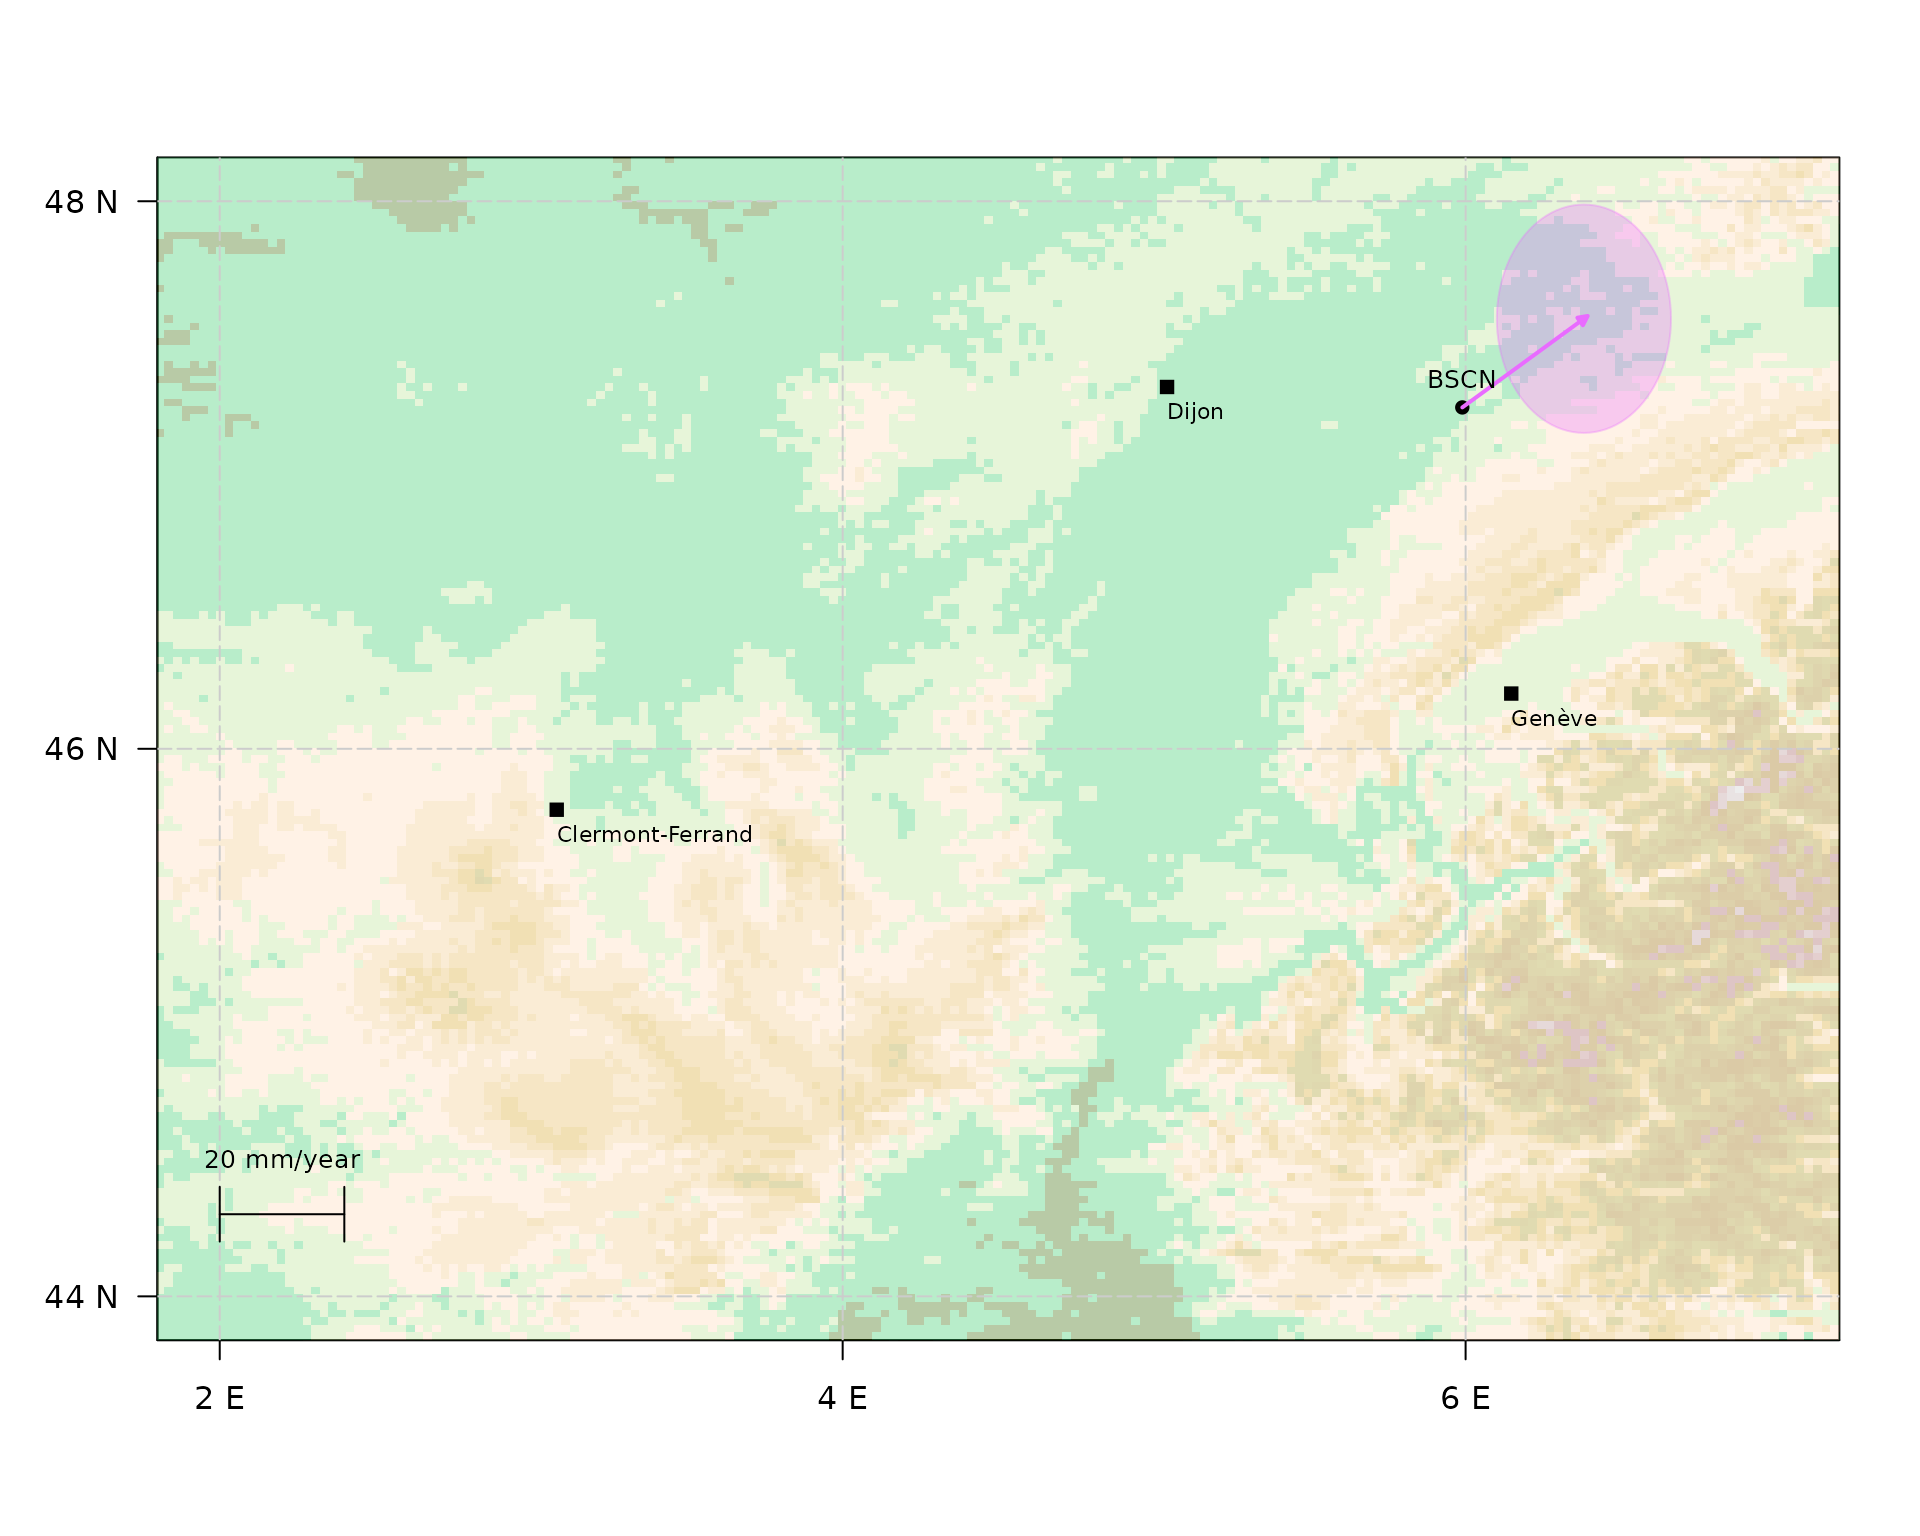
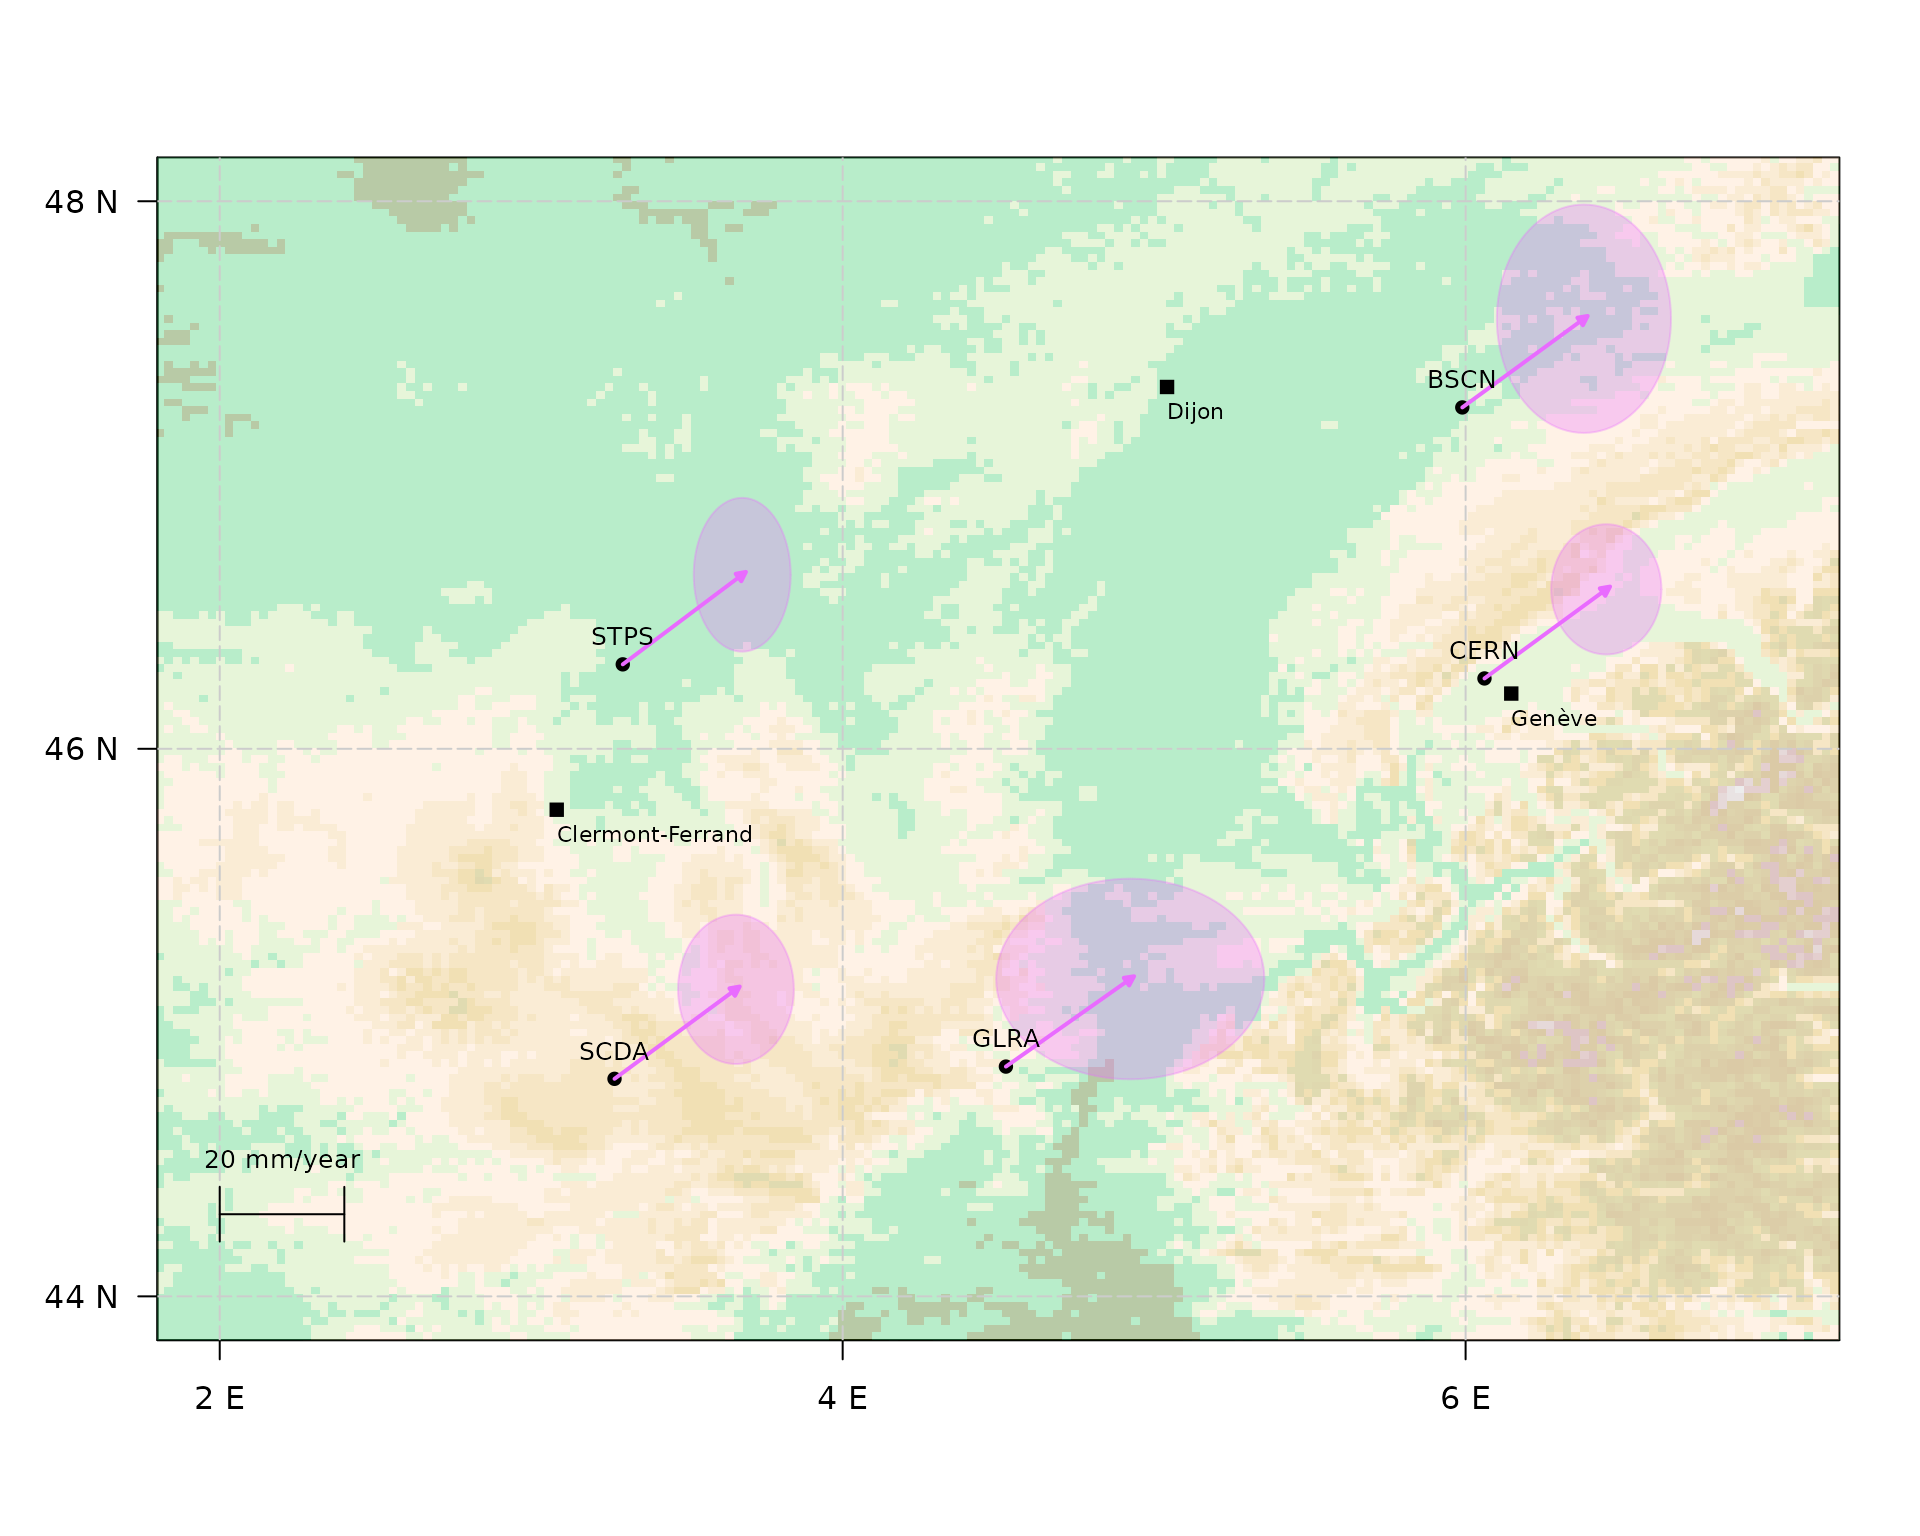
Deploying to gh-pages from @ SMAC-Group/gmwmx2@feb9e186579ff4a5169e818201d6920a2ecff6cf 🚀

diff --git a/articles/estimate_small_network.html b/articles/estimate_small_network.html
@@ -195,13 +195,15 @@
 <span></span>
 <span><span class="co"># download selected stations</span></span>
 <span><span class="va">selected_station</span> <span class="op">&lt;-</span> <span class="fu"><a href="https://rdrr.io/r/base/c.html" class="external-link">c</a></span><span class="op">(</span><span class="st">"BSCN"</span>, <span class="st">"CERN"</span>, <span class="st">"SCDA"</span>, <span class="st">"GLRA"</span>, <span class="st">"STPS"</span><span class="op">)</span></span>
-<span><span class="va">selected_station</span> <span class="op">&lt;-</span> <span class="fu"><a href="https://rdrr.io/r/base/c.html" class="external-link">c</a></span><span class="op">(</span><span class="st">"BSCN"</span><span class="op">)</span></span>
-<span><span class="co"># selected_station = c("BSCN")</span></span>
 <span><span class="va">df_network</span> <span class="op">&lt;-</span> <span class="va">all_station</span> <span class="op"><a href="https://magrittr.tidyverse.org/reference/pipe.html" class="external-link">%&gt;%</a></span> <span class="fu"><a href="https://dplyr.tidyverse.org/reference/filter.html" class="external-link">filter</a></span><span class="op">(</span><span class="va">station_name</span> <span class="op"><a href="https://rdrr.io/r/base/match.html" class="external-link">%in%</a></span> <span class="va">selected_station</span><span class="op">)</span></span>
 <span><span class="va">df_network</span></span></code></pre></div>
-<pre><code><span><span class="co">##    station_name latitude longitude   height</span></span>
-<span><span class="co">##          &lt;char&gt;    &lt;num&gt;     &lt;num&gt;    &lt;num&gt;</span></span>
-<span><span class="co">## 1:         BSCN 47.24688 -354.0106 359.5549</span></span></code></pre>
+<pre><code><span><span class="co">##    station_name latitude longitude    height</span></span>
+<span><span class="co">##          &lt;char&gt;    &lt;num&gt;     &lt;num&gt;     &lt;num&gt;</span></span>
+<span><span class="co">## 1:         BSCN 47.24688 -354.0106  359.5549</span></span>
+<span><span class="co">## 2:         CERN 46.25695 -353.9394  525.9422</span></span>
+<span><span class="co">## 3:         GLRA 44.83926 -355.4759  813.9238</span></span>
+<span><span class="co">## 4:         SCDA 44.79452 -356.7325 1115.3433</span></span>
+<span><span class="co">## 5:         STPS 46.30844 -356.7060  299.6851</span></span></code></pre>
 <div class="sourceCode" id="cb5"><pre class="downlit sourceCode r">
 <code class="sourceCode R"><span><span class="va">df_estimated_velocities</span> <span class="op">&lt;-</span> <span class="fu"><a href="https://rdrr.io/r/base/data.frame.html" class="external-link">data.frame</a></span><span class="op">(</span><span class="fu"><a href="https://rdrr.io/r/base/matrix.html" class="external-link">matrix</a></span><span class="op">(</span><span class="cn">NA</span>, nrow <span class="op">=</span> <span class="fu"><a href="https://rdrr.io/r/base/dim.html" class="external-link">dim</a></span><span class="op">(</span><span class="va">df_network</span><span class="op">)</span><span class="op">[</span><span class="fl">1</span><span class="op">]</span>, ncol <span class="op">=</span> <span class="fl">6</span><span class="op">)</span><span class="op">)</span></span>
 <span><span class="kw">for</span> <span class="op">(</span><span class="va">station_index</span> <span class="kw">in</span> <span class="fu"><a href="https://rdrr.io/r/base/seq.html" class="external-link">seq_along</a></span><span class="op">(</span><span class="va">df_network</span><span class="op">$</span><span class="va">station_name</span><span class="op">)</span><span class="op">)</span> <span class="op">{</span></span>
@@ -215,7 +217,11 @@
 <span></span>
 <span>  <span class="fu"><a href="https://rdrr.io/r/base/cat.html" class="external-link">cat</a></span><span class="op">(</span><span class="fu"><a href="https://rdrr.io/r/base/paste.html" class="external-link">paste0</a></span><span class="op">(</span><span class="st">"Processing station "</span>, <span class="va">station_name</span>, <span class="st">" "</span>, <span class="va">station_index</span>, <span class="st">"/"</span>, <span class="fu"><a href="https://rdrr.io/r/base/length.html" class="external-link">length</a></span><span class="op">(</span><span class="va">df_network</span><span class="op">$</span><span class="va">station_name</span><span class="op">)</span>, <span class="st">"\n"</span><span class="op">)</span><span class="op">)</span></span>
 <span><span class="op">}</span></span></code></pre></div>
-<pre><code><span><span class="co">## Processing station BSCN 1/1</span></span></code></pre>
+<pre><code><span><span class="co">## Processing station BSCN 1/5</span></span>
+<span><span class="co">## Processing station CERN 2/5</span></span>
+<span><span class="co">## Processing station GLRA 3/5</span></span>
+<span><span class="co">## Processing station SCDA 4/5</span></span>
+<span><span class="co">## Processing station STPS 5/5</span></span></code></pre>
 <div class="sourceCode" id="cb7"><pre class="downlit sourceCode r">
 <code class="sourceCode R"><span><span class="fu"><a href="https://rdrr.io/r/base/colnames.html" class="external-link">colnames</a></span><span class="op">(</span><span class="va">df_estimated_velocities</span><span class="op">)</span> <span class="op">&lt;-</span> <span class="fu"><a href="https://rdrr.io/r/base/c.html" class="external-link">c</a></span><span class="op">(</span><span class="st">"station_name"</span>, <span class="st">"estimated_trend_N"</span>, <span class="st">"std_estimated_trend_N"</span>, <span class="st">"estimated_trend_E"</span>, <span class="st">"std_estimated_trend_E"</span>, <span class="st">"time_series_length"</span><span class="op">)</span></span>
 <span></span>
@@ -237,12 +243,28 @@
 <span><span class="fu"><a href="https://rdrr.io/r/utils/head.html" class="external-link">head</a></span><span class="op">(</span><span class="va">df_estimated_velocities</span><span class="op">)</span></span></code></pre></div>
 <pre><code><span><span class="co">##   station_name estimated_trend_N std_estimated_trend_N estimated_trend_E</span></span>
 <span><span class="co">## 1         BSCN      4.435408e-05          3.262683e-07      5.345211e-05</span></span>
+<span><span class="co">## 2         CERN      4.455772e-05          1.860753e-07      5.354428e-05</span></span>
+<span><span class="co">## 3         GLRA      4.380876e-05          2.866518e-07      5.466610e-05</span></span>
+<span><span class="co">## 4         SCDA      4.475967e-05          2.134131e-07      5.337310e-05</span></span>
+<span><span class="co">## 5         STPS      4.481839e-05          2.197019e-07      5.248970e-05</span></span>
 <span><span class="co">##   std_estimated_trend_E time_series_length estimated_trend_N_scaled</span></span>
 <span><span class="co">## 1          2.187197e-07               8059               0.01620033</span></span>
+<span><span class="co">## 2          1.384963e-07               4968               0.01627471</span></span>
+<span><span class="co">## 3          3.368441e-07               5739               0.01600115</span></span>
+<span><span class="co">## 4          1.454117e-07               6206               0.01634847</span></span>
+<span><span class="co">## 5          1.217579e-07               6269               0.01636992</span></span>
 <span><span class="co">##   std_estimated_trend_N_scaled estimated_trend_E_scaled</span></span>
-<span><span class="co">## 1                 0.0001191695               0.01952338</span></span>
+<span><span class="co">## 1                 1.191695e-04               0.01952338</span></span>
+<span><span class="co">## 2                 6.796401e-05               0.01955705</span></span>
+<span><span class="co">## 3                 1.046996e-04               0.01996679</span></span>
+<span><span class="co">## 4                 7.794912e-05               0.01949452</span></span>
+<span><span class="co">## 5                 8.024612e-05               0.01917186</span></span>
 <span><span class="co">##   std_estimated_trend_E_scaled</span></span>
-<span><span class="co">## 1                 7.988737e-05</span></span></code></pre>
+<span><span class="co">## 1                 7.988737e-05</span></span>
+<span><span class="co">## 2                 5.058577e-05</span></span>
+<span><span class="co">## 3                 1.230323e-04</span></span>
+<span><span class="co">## 4                 5.311164e-05</span></span>
+<span><span class="co">## 5                 4.447209e-05</span></span></code></pre>
 <div class="sourceCode" id="cb9"><pre class="downlit sourceCode r">
 <code class="sourceCode R"><span><span class="fu">knitr</span><span class="fu">::</span><span class="fu"><a href="https://rdrr.io/pkg/knitr/man/kable.html" class="external-link">kable</a></span><span class="op">(</span><span class="va">df_estimated_velocities</span><span class="op">)</span></span></code></pre></div>
 <table class="table">
@@ -270,7 +292,8 @@
 <th align="right">estimated_trend_E_scaled</th>
 <th align="right">std_estimated_trend_E_scaled</th>
 </tr></thead>
-<tbody><tr class="odd">
+<tbody>
+<tr class="odd">
 <td align="left">BSCN</td>
 <td align="right">4.44e-05</td>
 <td align="right">3e-07</td>
@@ -281,7 +304,56 @@
 <td align="right">0.0001192</td>
 <td align="right">0.0195234</td>
 <td align="right">7.99e-05</td>
-</tr></tbody>
+</tr>
+<tr class="even">
+<td align="left">CERN</td>
+<td align="right">4.46e-05</td>
+<td align="right">2e-07</td>
+<td align="right">5.35e-05</td>
+<td align="right">1e-07</td>
+<td align="right">4968</td>
+<td align="right">0.0162747</td>
+<td align="right">0.0000680</td>
+<td align="right">0.0195570</td>
+<td align="right">5.06e-05</td>
+</tr>
+<tr class="odd">
+<td align="left">GLRA</td>
+<td align="right">4.38e-05</td>
+<td align="right">3e-07</td>
+<td align="right">5.47e-05</td>
+<td align="right">3e-07</td>
+<td align="right">5739</td>
+<td align="right">0.0160011</td>
+<td align="right">0.0001047</td>
+<td align="right">0.0199668</td>
+<td align="right">1.23e-04</td>
+</tr>
+<tr class="even">
+<td align="left">SCDA</td>
+<td align="right">4.48e-05</td>
+<td align="right">2e-07</td>
+<td align="right">5.34e-05</td>
+<td align="right">1e-07</td>
+<td align="right">6206</td>
+<td align="right">0.0163485</td>
+<td align="right">0.0000779</td>
+<td align="right">0.0194945</td>
+<td align="right">5.31e-05</td>
+</tr>
+<tr class="odd">
+<td align="left">STPS</td>
+<td align="right">4.48e-05</td>
+<td align="right">2e-07</td>
+<td align="right">5.25e-05</td>
+<td align="right">1e-07</td>
+<td align="right">6269</td>
+<td align="right">0.0163699</td>
+<td align="right">0.0000802</td>
+<td align="right">0.0191719</td>
+<td align="right">4.45e-05</td>
+</tr>
+</tbody>
 </table>
 </div>
 <div class="section level2">

diff --git a/articles/fit_model.html b/articles/fit_model.html
@@ -520,7 +520,7 @@ specific component (North, East or Vertical) of one station.</p>
 <span><span class="co">##  P(Z_{i+1} = 1 | Z_{i} = 0): 0.31578947</span></span>
 <span><span class="co">##  \hat{E[Z]}: 0.99122807</span></span>
 <span><span class="co">## -------------------------------------------------------------</span></span>
-<span><span class="co">## Running time: 0.75 seconds</span></span>
+<span><span class="co">## Running time: 0.77 seconds</span></span>
 <span><span class="co">## -------------------------------------------------------------</span></span></code></pre>
 <p>By default, the estimated parameters are provided in m/day, we can
 optionally scale the estimated functional parameters so that they are
@@ -569,7 +569,7 @@ returned in m/year with the argument <code>scale_parameters</code>.</p>
 <span><span class="co">##  P(Z_{i+1} = 1 | Z_{i} = 0): 0.31578947</span></span>
 <span><span class="co">##  \hat{E[Z]}: 0.99122807</span></span>
 <span><span class="co">## -------------------------------------------------------------</span></span>
-<span><span class="co">## Running time: 0.75 seconds</span></span>
+<span><span class="co">## Running time: 0.77 seconds</span></span>
 <span><span class="co">## -------------------------------------------------------------</span></span></code></pre>
 </div>
 <div class="section level2">
@@ -623,7 +623,7 @@ returned in m/year with the argument <code>scale_parameters</code>.</p>
 <span><span class="co">##  P(Z_{i+1} = 1 | Z_{i} = 0): 0.31578947</span></span>
 <span><span class="co">##  \hat{E[Z]}: 0.99122807</span></span>
 <span><span class="co">## -------------------------------------------------------------</span></span>
-<span><span class="co">## Running time: 0.87 seconds</span></span>
+<span><span class="co">## Running time: 0.85 seconds</span></span>
 <span><span class="co">## -------------------------------------------------------------</span></span></code></pre>
 <div class="sourceCode" id="cb14"><pre class="downlit sourceCode r">
 <code class="sourceCode R"><span><span class="fu"><a href="https://rdrr.io/r/base/plot.html" class="external-link">plot</a></span><span class="op">(</span><span class="va">fit2</span><span class="op">)</span></span></code></pre></div>

diff --git a/reference/summary.fit_gnss_ts_ngl.html b/reference/summary.fit_gnss_ts_ngl.html
@@ -185,7 +185,7 @@
 <span class="r-out co"><span class="r-pr">#&gt;</span>  P(Z_{i+1} = 1 | Z_{i} = 0): 1.00000000</span>
 <span class="r-out co"><span class="r-pr">#&gt;</span>  \hat{E[Z]}: 0.99923225</span>
 <span class="r-out co"><span class="r-pr">#&gt;</span> -------------------------------------------------------------</span>
-<span class="r-out co"><span class="r-pr">#&gt;</span> Running time: 0.66 seconds</span>
+<span class="r-out co"><span class="r-pr">#&gt;</span> Running time: 0.67 seconds</span>
 <span class="r-out co"><span class="r-pr">#&gt;</span> -------------------------------------------------------------</span>
 <span class="r-in"><span></span></span>
 </code></pre></div>
